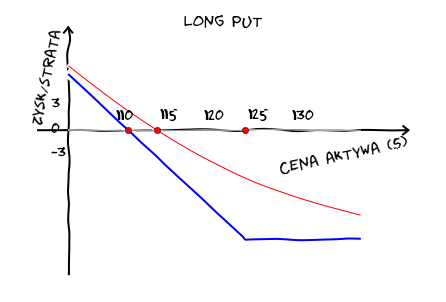
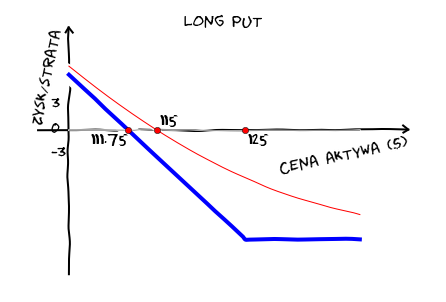
arf2...

diff --git a/ARF2/source/opcje.rst b/ARF2/source/opcje.rst
@@ -445,7 +445,17 @@ Wartość wewnętrzna przyjmuje tylko wartości dodatnie lub jest równa zero.
 Opcja z zerowa wartością wewnętrzna nazywa się **out of the money**,
 opcja z wartości a wewnętrzną większą od zera nazywa się **in the
 money** a jeśli cena wykonania opcji jest równa cenie aktywa bazowego
-opcje nazywa się **at the Money**.
+opcje nazywa się **at the money**.
+
+
+.. figure:: figs/inatout.png 
+   :align: center
+   :figwidth: 629px
+
+   Ewolucja czasowa ceny aktywa. Jeśli mamy opcję Call o cenie wykupu
+   :math:`K=125` to w obszarze czerwonym jest ona *out of the money**,
+   w zielonym **in the money** a punktach w których kurs aktywa
+   przechodzi przez cenę wykonania **at the money**.
 
 
 
@@ -456,26 +466,30 @@ nabywca nie wykorzysta opcji.
 
 Inwestor wyszukuje właściwą opcje kierując się (w przypadku akcji
 spółki) Nazwą firmy, datą zapadalności (wygaśnięcia), ceną wykonania,
-i typem opcji:
+i typem opcji.
 
-Przykładowo, mamy następującą informacje: 
-
-Diora  Stycz.125.00 Call
-
-Gdzie:
-
-| Diora - nazwa spółki
-| Styczeń - data zapadalności
-| 125.00 - cena wykonania
-| *Call* - typ opcji.
-
-
-Przyjmijmy, ze cena takiej opcji cal wynosi 3.25 a cena opcji put
-13.25 - jednostki monetarnej.
 
 
 Profile ryzyka w czterech przypadkach
 -------------------------------------
+
+
+.. admonition:: Przykład
+   
+    Mamy następującą informacje:  Diora  Stycz.125.00 Call
+
+    Gdzie:
+
+    - Diora - nazwa spółki
+    - Styczeń - data zapadalności, 
+    - 125.00 - cena wykonania
+    - *Call* - typ opcji.
+
+
+    Przyjmijmy, ze cena takiej opcji cal wynosi **3.25** a cena opcji
+    put **13.25** - jednostki monetarnej. Będziemy także oznaczać datę
+    zapadalności jako :math:`t=T`, a chwilę obecną :math:`t=0`.
+
 
 Long Call - kupujemy prawo kupna
 ~~~~~~~~~~~~~~~~~~~~~~~~~~~~~~~~
@@ -535,8 +549,8 @@ poniższych cenach rynkowych. W naszym przypadku -3.25.  Gdy cena
 aktywa wzrośnie powyżej ceny wykonania + cena opcji (125+3.25=128.25)
 (break even point) zysk będzie praktycznie nieograniczony i zależny od
 wzrostu.  Miedzy cena wykonania a cena wykonania + cena opcji zysk
-będzie równy ujemny ale ograniczony. Te dwa punkty punkty zaznaczone
-są czerwonymi kropkami na osi odciętych na powyższym wykresie.
+będzie równy ujemny ale ograniczony. Te punkty punkty zaznaczone są
+czerwonymi kropkami na osi odciętych na powyższym wykresie.
 
 
 Short Call - sprzedajemy prawo kupna
@@ -565,12 +579,12 @@ Long Put - kupujemy prawo sprzedaży
    Long - Put: czyli nabyliśmy prawo do sprzedaży po cenie :math:`K`.
 
 
-Posiadacz opcji *put (long put)* o cenie 13.25 i cenie wykonania 125
+Posiadacz opcji *put (long put)* o cenie **13.25** i cenie wykonania 125
 nie będzie wykorzystywał opcji jeśli cena aktywa będzie wyższa niż
 125 bo sprzeda aktywo na rynku kasowym. W zakresie 125 - 111.75
 zrealizuje opcje celem zminimalizowania straty. Zysk osiągnie jak cena
 spadnie poniżej 111.75.
-
+ 
 
 .. figure:: figs/shortput.png 
    :align: center
@@ -595,6 +609,90 @@ opcji - czyli; *long call, short call, long put, short put*, nasuwa
 się pomysł aby używać kombinacji opcji i w ten sposób chronić
 posiadane aktywa za pomocą opcji. Takie strategie opcyjne są omówione
 w rozdziale - Hedging za pomoca opcji.
+
+Jak zależy profil wypłaty od parametrów K,S?
+--------------------------------------------
+
+
+.. sagecellserver::
+
+    var('S')
+    def longCALL(S,K,P=0):
+        return max_symbolic(S-K,0)-P
+    def longPUT(S,K,P=0):
+        return max_symbolic(K-S,0)-P
+    def shortCALL(S,K,P=0):
+        return -max_symbolic(S-K,0)+P
+    def shortPUT(S,K,P=0):
+        return -max_symbolic(K-S,0)+P
+
+
+    var('sigma,S0,K,T,r')
+    cdf(x) = 1/2*(1+erf(x/sqrt(2)))
+    d1=(log(S0/K)+(r+sigma**2/2)*T)/(sigma*sqrt(T))
+    d2=d1-sigma*sqrt(T)
+    C(S0,K,r,T,sigma) = S0*cdf(d1)-K*exp(-r*T)*cdf(d2)
+    P(S0,K,r,T,sigma) = K*exp(-r*T)*cdf(-d2)-S0*cdf(-d1)
+
+    def plotOption(OPTION=longCALL,S0=115,K=125, c='red'):
+        var('S')
+        S1,S2 = 100,140
+        sigma = 0.1
+        if "CALL" in OPTION.__name__:
+            cena = C 
+        else:
+            cena = P
+        if "short" in OPTION.__name__:
+            k = -1.0
+        else:
+            k = 1.0    
+
+        SP = cena(S0,K,0.0,1,sigma).n()       
+        p  = plot( OPTION(S,K,SP),(S,S1,S2),color=c)
+        p += plot(k*(cena(x,K,0.0,1,sigma)-SP),(x,S1,S2),color='gray',thickness=0.5)
+        p += point([(K,0),(S0,0)],color='brown',size=40,gridlines=[[K],[]])
+        p += text(r"$K$",(K,2))
+        p += text(r"$S_0$",(S0,k*2))
+        return p
+
+.. sagecellserver::
+
+    @interact 
+    def _(K=slider(100,135,1,default=125),S0=slider(100,135,1,default=115)):
+        p = plotOption(OPTION=longCALL,S0=S0,K=K,c='green')
+        p.set_axes_range(xmin=100,xmax=140,ymin=-10,ymax=20)
+        p.show(figsize=5)
+
+
+
+.. sagecellserver::
+
+    @interact 
+    def _(K=slider(100,135,1,default=125),S0=slider(100,135,1,default=115)):
+        p = plotOption(OPTION=shortCALL,S0=S0,K=K,c='green')
+        p.set_axes_range(xmin=100,xmax=140,ymin=-10,ymax=20)
+        p.show(figsize=5)
+
+
+
+.. sagecellserver::
+
+    @interact 
+    def _(K=slider(100,135,1,default=125),S0=slider(100,135,1,default=115)):
+        p = plotOption(OPTION=longPUT,S0=S0,K=K,c='green')
+        p.set_axes_range(xmin=100,xmax=140,ymin=-10,ymax=20)
+        p.show(figsize=5)
+
+
+
+.. sagecellserver::
+
+    @interact 
+    def _(K=slider(100,135,1,default=125),S0=slider(100,135,1,default=115)):
+        p = plotOption(OPTION=shortPUT,S0=S0,K=K,c='green')
+        p.set_axes_range(xmin=100,xmax=140,ymin=-10,ymax=20)
+        p.show(figsize=5)
+
 
 
 Dwie opcje
@@ -666,6 +764,8 @@ Dwie opcje
          p = plotOptions(OPTIONS=[longCALL,longPUT],Ks=[K1,K2], cs=['red','green'],alpha=alpha)
          p.set_axes_range(ymin=-12,ymax=12)
          p.show(figsize=6)
+
+
 
 Wycena opcji
 ------------
